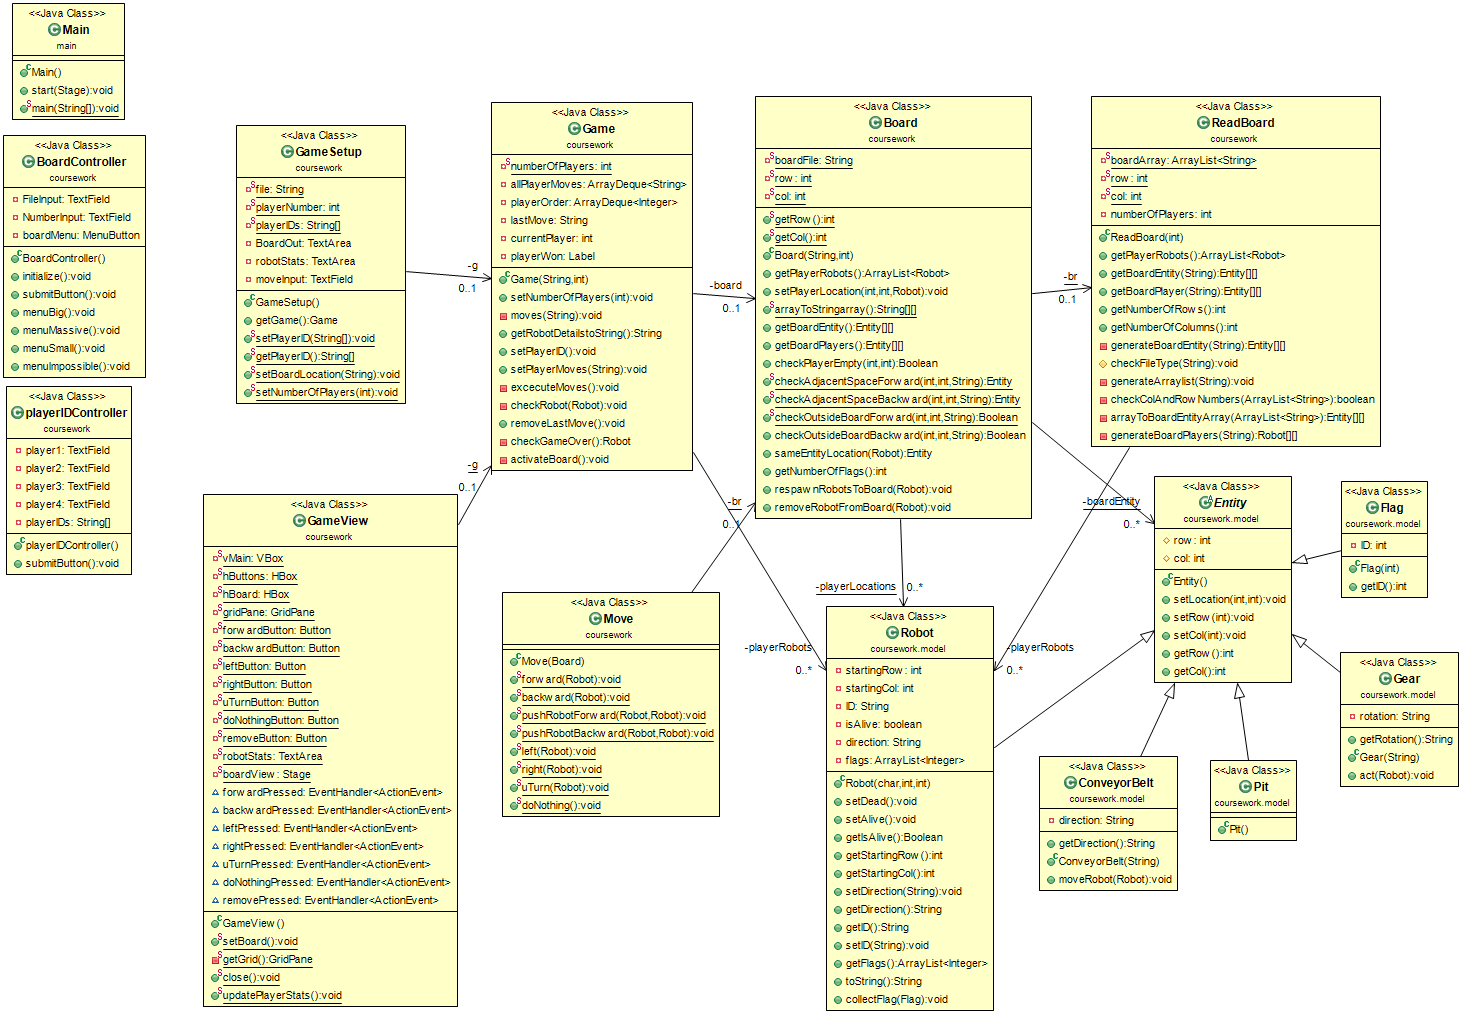
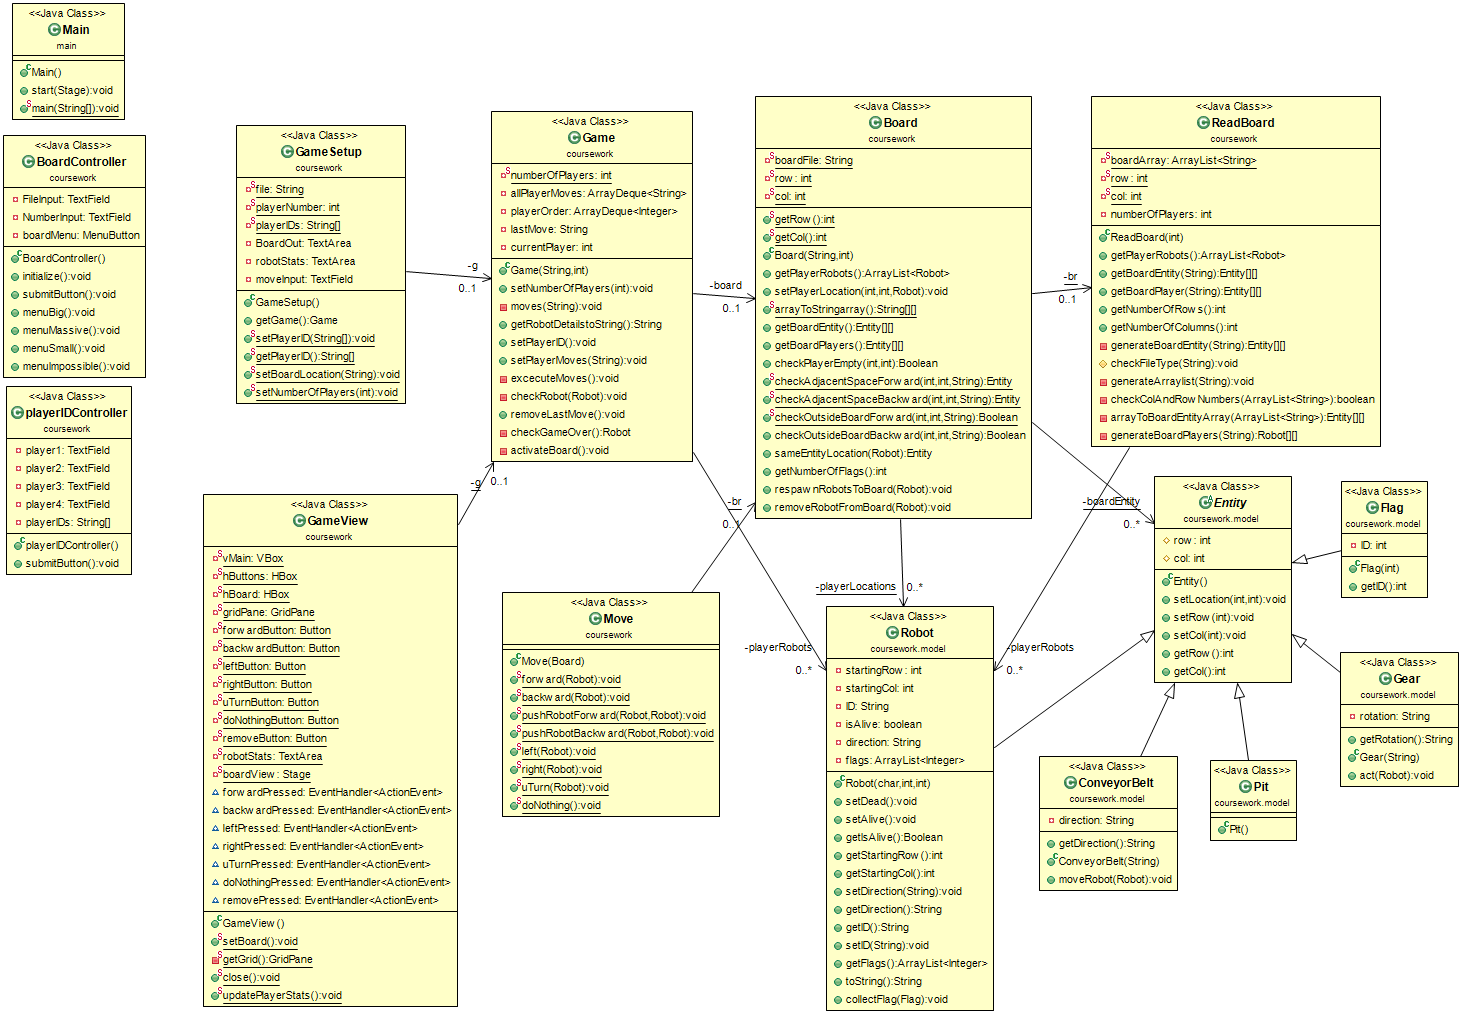
Add files via upload

Changed region(s): [[0.3078, 0.0917, 0.4925, 0.4892]]

diff --git a/Code/src/coursework/Game.java b/Code/src/coursework/Game.java
@@ -13,12 +13,10 @@ import coursework.model.Flag;
 import coursework.model.Gear;
 import coursework.model.Pit;
 import coursework.model.Robot;
-import javafx.fxml.FXML;
 import javafx.fxml.FXMLLoader;
 import javafx.scene.Parent;
 import javafx.scene.Scene;
 import javafx.scene.control.Control;
-import javafx.scene.control.Label;
 import javafx.stage.Modality;
 import javafx.stage.Stage;
 
@@ -38,8 +36,6 @@ public class Game {
 
 	private int currentPlayer = 0;
 
-	@FXML
-	private Label playerWon;
 
 	/**
 	 *
@@ -264,7 +260,7 @@ public class Game {
 	 *
 	 * The game over function is checked to see if it is Null. If it isn't null,
 	 * meaning the game has been won, it opens a new GUI scene saying "Game
-	 * Over" and the player who has won. The player details is updated to the player who has won. Closing
+	 * Over". The player details is updated to the player who has won. Closing
 	 * this scene closes the entire game.
 	 * </p>
 	 *
@@ -308,7 +304,6 @@ public class Game {
 
 			final FXMLLoader loader = new FXMLLoader();
 			loader.setLocation(getClass().getResource("GameOver.fxml"));
-			//playerWon.setText(playerRobots.get(currentPlayer).getID() + " WINS");
 			try {
 				final Parent parent = (Parent) loader.load();
 

diff --git a/Code/src/coursework/model/Robot.java b/Code/src/coursework/model/Robot.java
@@ -2,11 +2,9 @@ package coursework.model;
 
 import java.util.ArrayList;
 
-import coursework.Board;
-
 /**
  *
- * @author Muhammad Khan (180196294) & Matthew Osborne (osbornem)
+ * @author Muhammad Khan (180196294) and Matthew Osborne (osbornem)
  * @version 18/04/2019
  */
 public class Robot extends Entity {
@@ -28,9 +26,9 @@ public class Robot extends Entity {
 	 * Also sets up ArrayList to store flags which have been collected
 	 * </p>
 	 *
-	 * @param id
-	 * @param startRow
-	 * @param startCol
+	 * @param id The name of the players Robot
+	 * @param startRow The row the robot starts at
+	 * @param startCol The column the robot starts at
 	 */
 	public Robot(char id, int startRow, int startCol) {
 		super();
@@ -113,6 +111,11 @@ public class Robot extends Entity {
 
 	/************************************************************************************/
 
+	/**
+	 * Add the flag to the array if it is not already collected
+	 *
+	 * @param f Flag
+	 */
 	public void collectFlag(Flag f) {
 		if (flags.contains(f.getID())) {
 			System.out.println("Flag already collected");

diff --git a/Code/src/coursework/model/Gear.java b/Code/src/coursework/model/Gear.java
@@ -5,13 +5,13 @@ import coursework.Move;
 /**
  * This class represents the gear for the robot,
  * to determine which direction the robot is facing
- * @authors Akeel Saleem , Lewis Miller
+ * @author Akeel Saleem , Lewis Miller
  * @version 18/04/19
  */
 public class Gear extends Entity{
 	private String rotation;
-	
-	
+
+
 	public String getRotation() {
 		return rotation;
 	}
@@ -23,7 +23,7 @@ public class Gear extends Entity{
 		super();
 		rotation = r;
 	}
-	
+
 	public void act(Robot robot) {
 		if(rotation.equals("clockwise")){
 			Move.right(robot);

diff --git a/Code/src/coursework/model/ConveyorBelt.java b/Code/src/coursework/model/ConveyorBelt.java
@@ -6,6 +6,8 @@ import coursework.Move;
 
 /**
 *
+* Moves a player forward one place, unless it is in a corner where it rotates it clockwise.
+*
 * @author Matthew Osborne
 */
 
@@ -21,7 +23,7 @@ public class ConveyorBelt extends Entity {
 	 *
 	 * Sets the direction of the conveyor Belt
 	 *
-	 * @param direction
+	 * @param direction The direction the conveyor is facing
 	 */
 	public ConveyorBelt(String direction) {
 		this.direction = direction;

diff --git a/Code/src/coursework/model/RobotTest.java b/Code/src/coursework/model/RobotTest.java
@@ -9,7 +9,7 @@ import org.junit.Before;
 import org.junit.Test;
 
 /**
- * @author Akeel Saleem, Uzair Akhter, Muhammad Khan
+ * @author Muhammad Khan
  *
  */
 public class RobotTest {
@@ -22,11 +22,8 @@ public class RobotTest {
 	boolean isAlive;
 	boolean isDead;
 
-	/**
-	 * @throws java.lang.Exception
-	 */
 	@Before
-	public void setUp() throws Exception {
+	public void setUp()  {
 
 		isDead = false;
 		isAlive = true;

diff --git a/Code/src/coursework/ReadBoard.java b/Code/src/coursework/ReadBoard.java
@@ -18,6 +18,10 @@ import coursework.model.Gear;
 import coursework.model.Pit;
 import coursework.model.Robot;
 
+/**
+ * @author Matthew Osborne
+ *
+ */
 public class ReadBoard {
 
 	private static ArrayList<String> boardArray;

diff --git a/Code/src/coursework/ReadBoardTest.java b/Code/src/coursework/ReadBoardTest.java
@@ -4,6 +4,10 @@ import org.junit.Before;
 import org.junit.BeforeClass;
 import org.junit.Test;
 
+/**
+ * @author Matthew Osborne
+ *
+ */
 public class ReadBoardTest {
 
 	private ReadBoard rb;

diff --git a/Code/src/coursework/playerIDController.java b/Code/src/coursework/playerIDController.java
@@ -3,6 +3,10 @@ package coursework;
 import javafx.fxml.FXML;
 import javafx.scene.control.TextField;
 
+/**
+ * @author Matthew Osborne
+ *
+ */
 public class playerIDController {
 
 	@FXML

diff --git a/Code/src/coursework/MoveTest.java b/Code/src/coursework/MoveTest.java
@@ -8,8 +8,7 @@ import org.junit.BeforeClass;
 import org.junit.Test;
 
 /**
- * @autho
- *r Akeel Saleem, Uzair Akhter
+ * @author Akeel Saleem, Uzair Akhter
  */
 public class MoveTest {
 

diff --git a/Code/src/coursework/model/Flag.java b/Code/src/coursework/model/Flag.java
@@ -17,9 +17,5 @@ public class Flag extends Entity {
 	public int getID() {
 		return ID;
 	}
-	//Set the ID
-//	public static void setID(int iD) {
-//		ID = iD;
-//	}
 
 }

diff --git a/Code/src/coursework/BoardTest.java b/Code/src/coursework/BoardTest.java
@@ -8,6 +8,10 @@ import org.junit.Test;
 
 import coursework.model.Robot;
 
+/**
+ * @author Lewis Miller
+ *
+ */
 public class BoardTest {
 
 	@Before

diff --git a/Code/src/coursework/model/FlagTest.java b/Code/src/coursework/model/FlagTest.java
@@ -12,6 +12,10 @@ import org.junit.Before;
 
 import org.junit.Test;
 
+/**
+ * @author Muhammad Khan
+ *
+ */
 public class FlagTest {
 
 	Flag f1;
